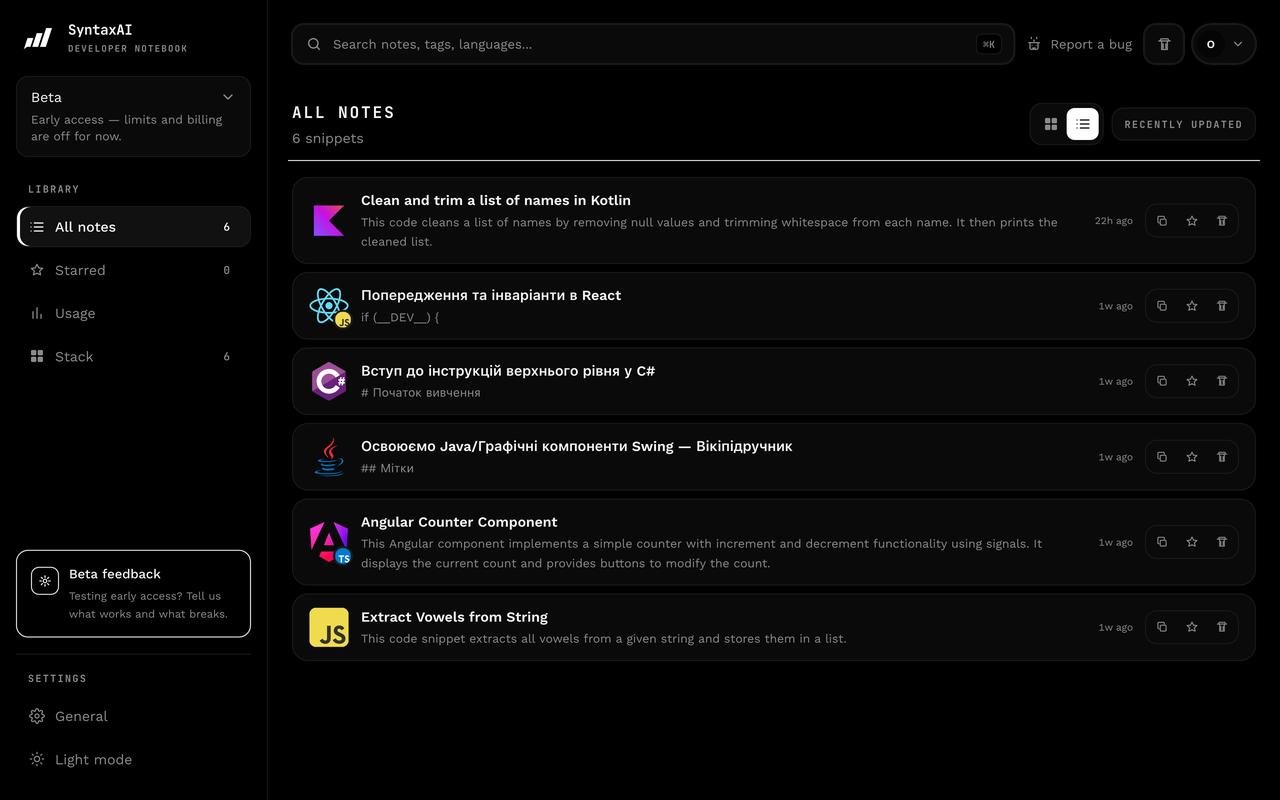
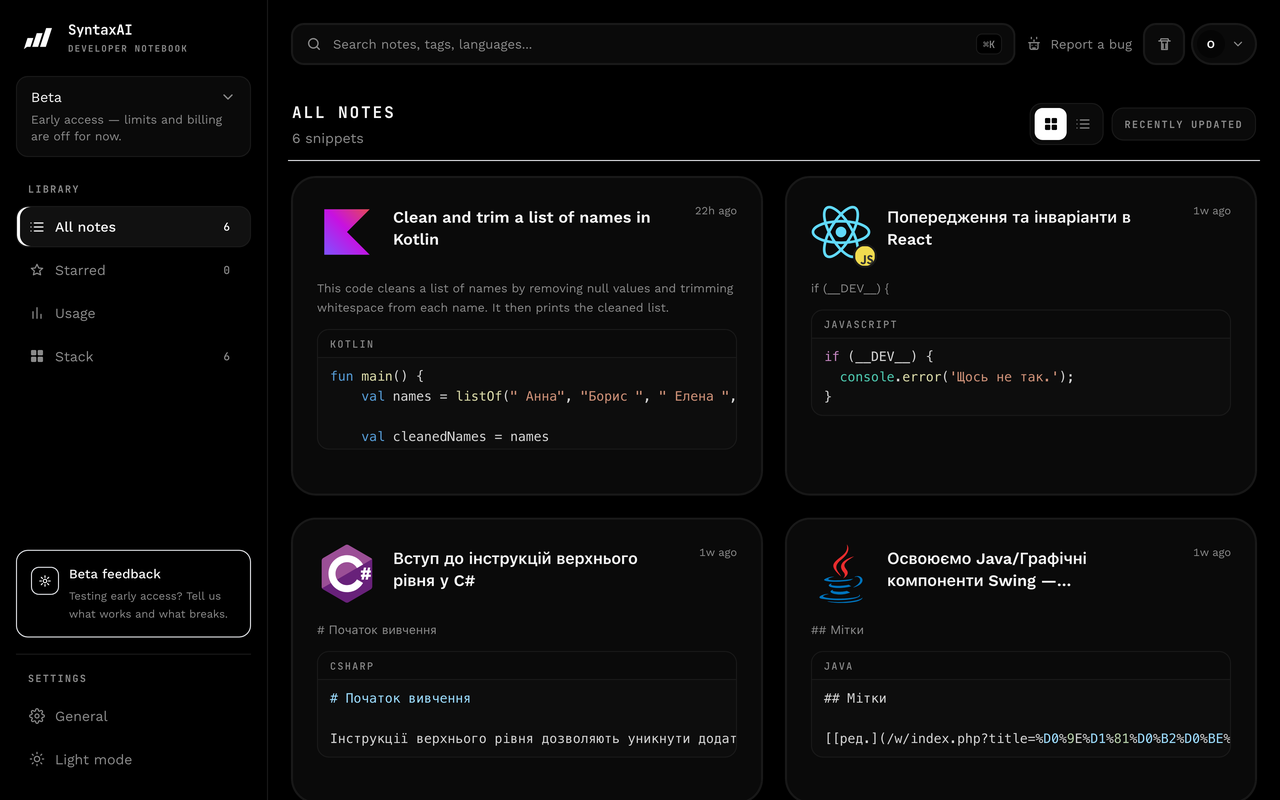
chore(store): use grid view for library shots

diff --git a/scripts/make-store-screenshots.py b/scripts/make-store-screenshots.py
@@ -79,14 +79,14 @@ def store_shots() -> dict[str, Image.Image]:
     return {
         "1-capture-sidepanel.png": capture_panels(),
         "2-ai-note.png": full_bleed("note-detail.png"),
-        "3-library.png": full_bleed("library-list.png"),
+        "3-library.png": full_bleed("library-grid.png"),
         "4-insights.png": full_bleed("usage-insights.png"),
         "5-stack.png": full_bleed("stack.png"),
     }
 
 
 def site_shots() -> dict[str, Image.Image]:
-    library = load("library-list.png")
+    library = load("library-grid.png")
     # Hero uses an aspect-[1500/951] frame: crop the empty right edge to match it exactly.
     crop_w = round(library.height * 1500 / 951)
     library = resize(library.crop((0, 0, crop_w, library.height)), 3000, 1902)
